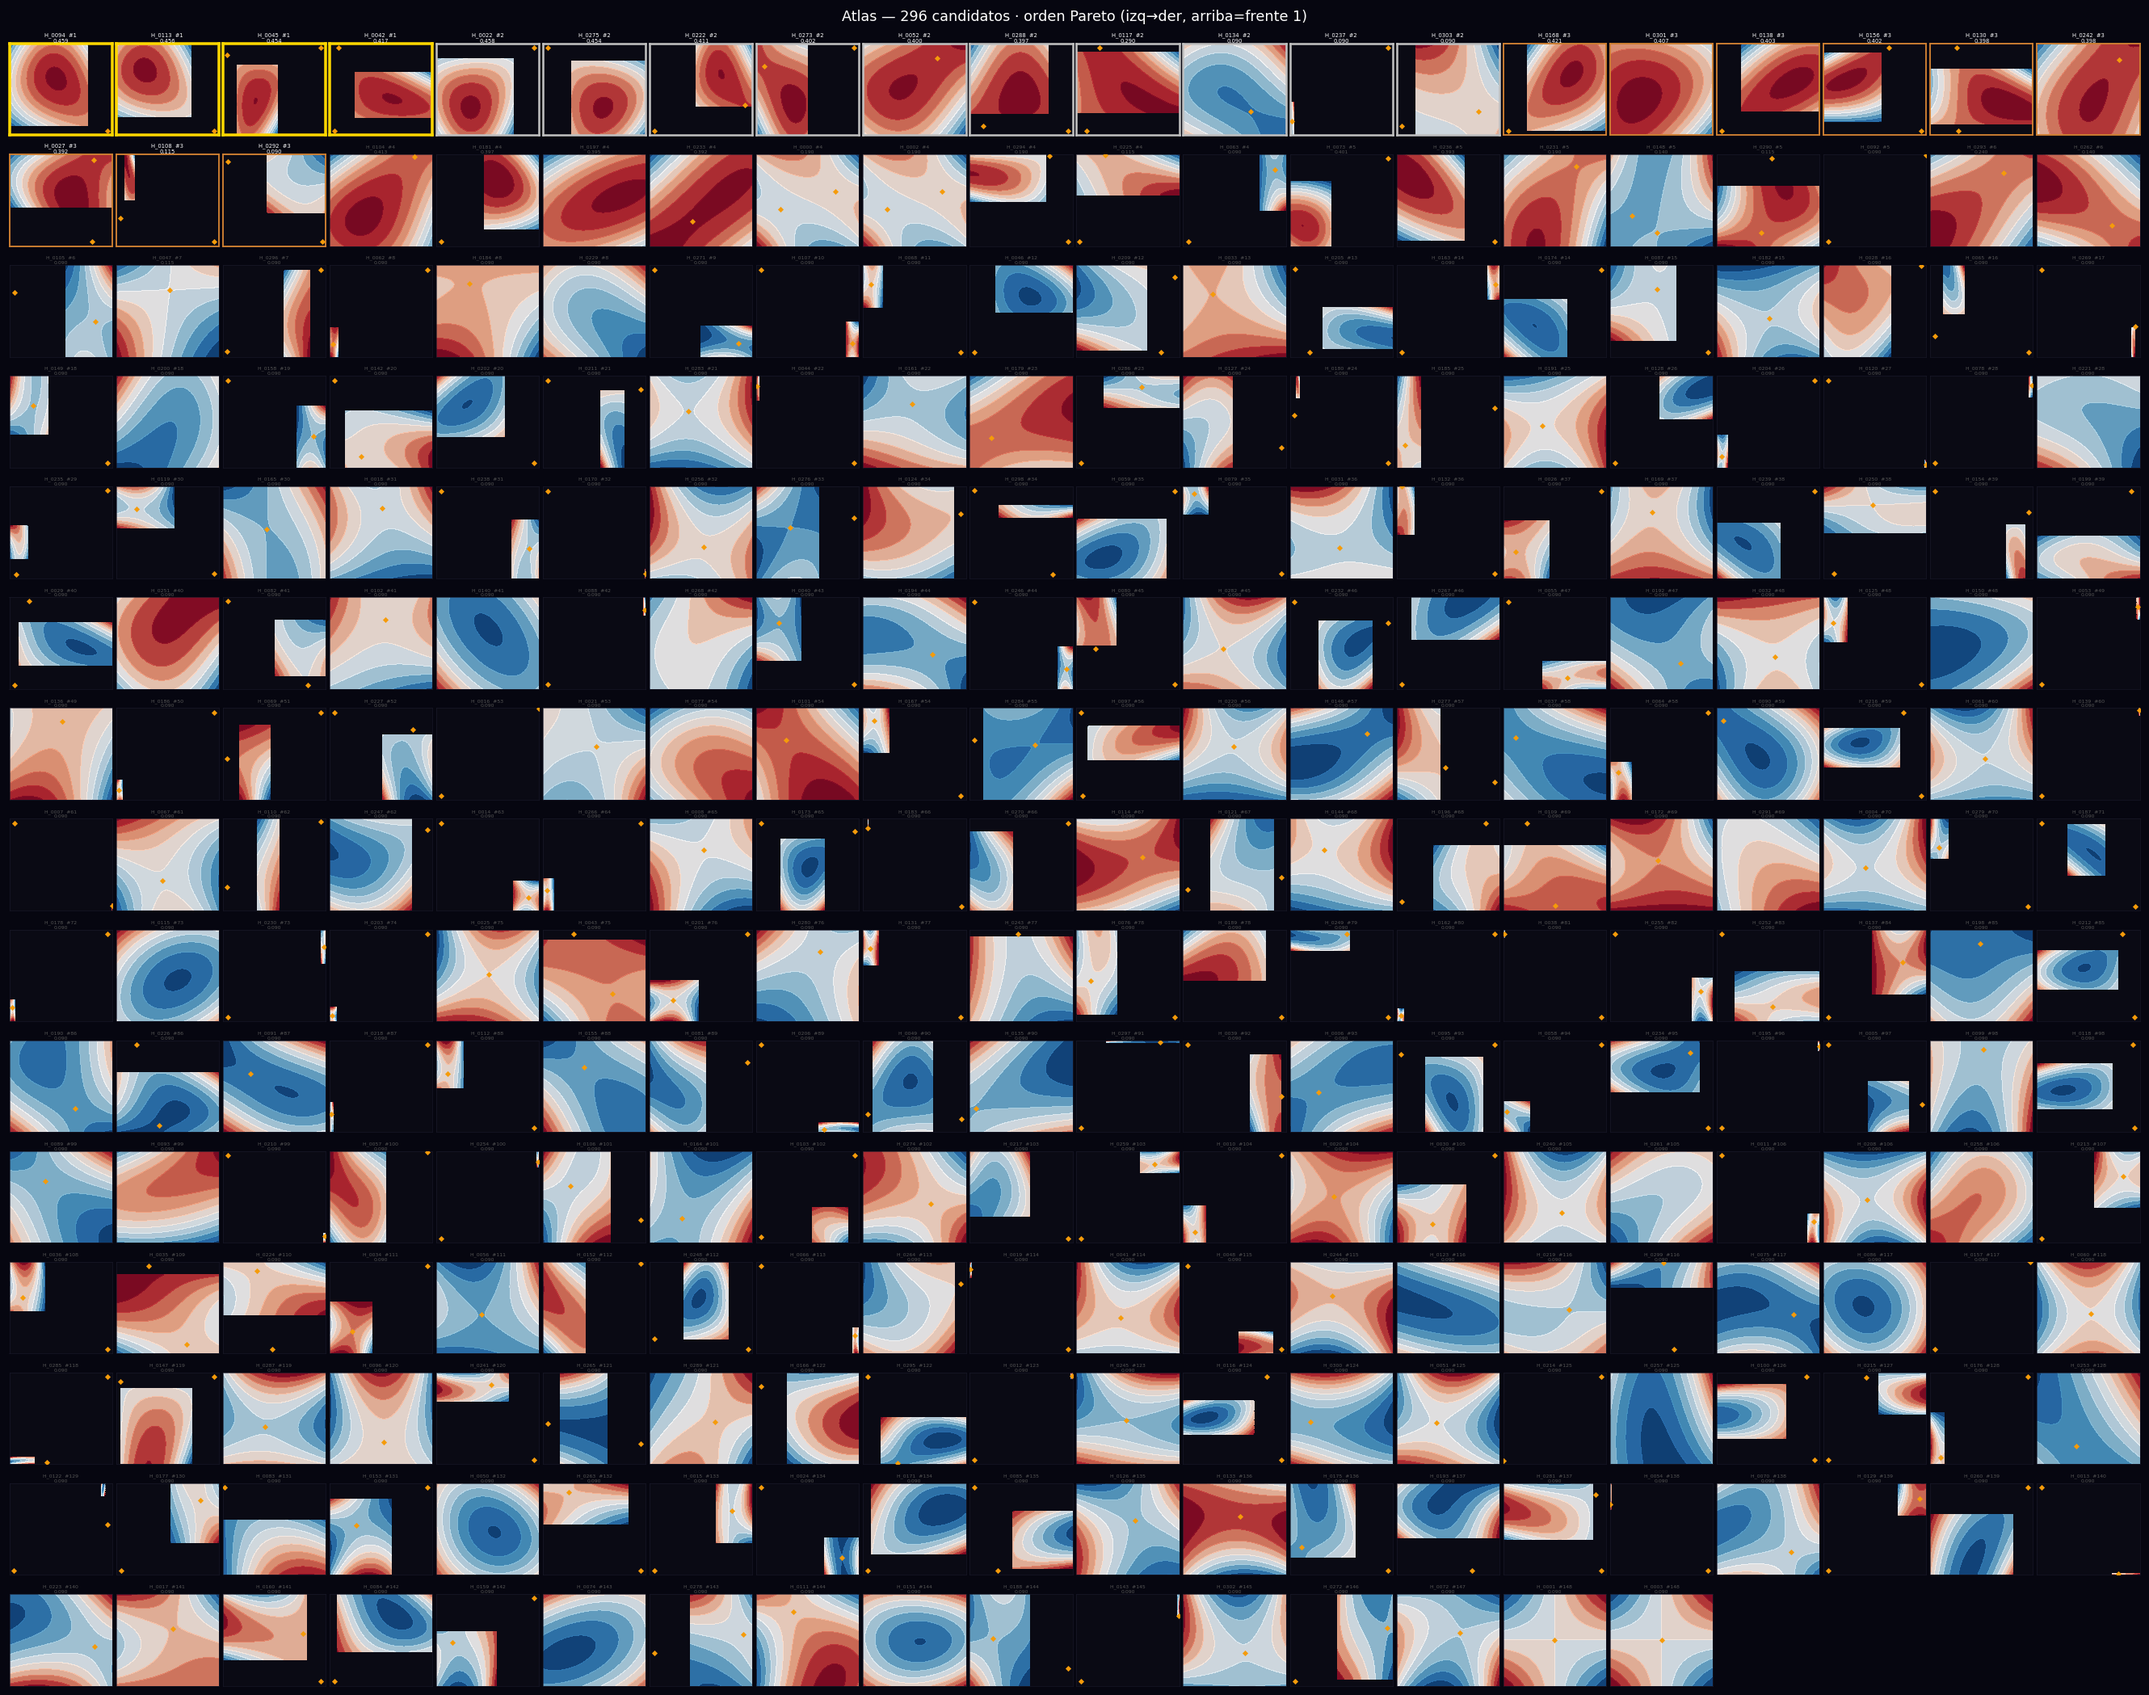
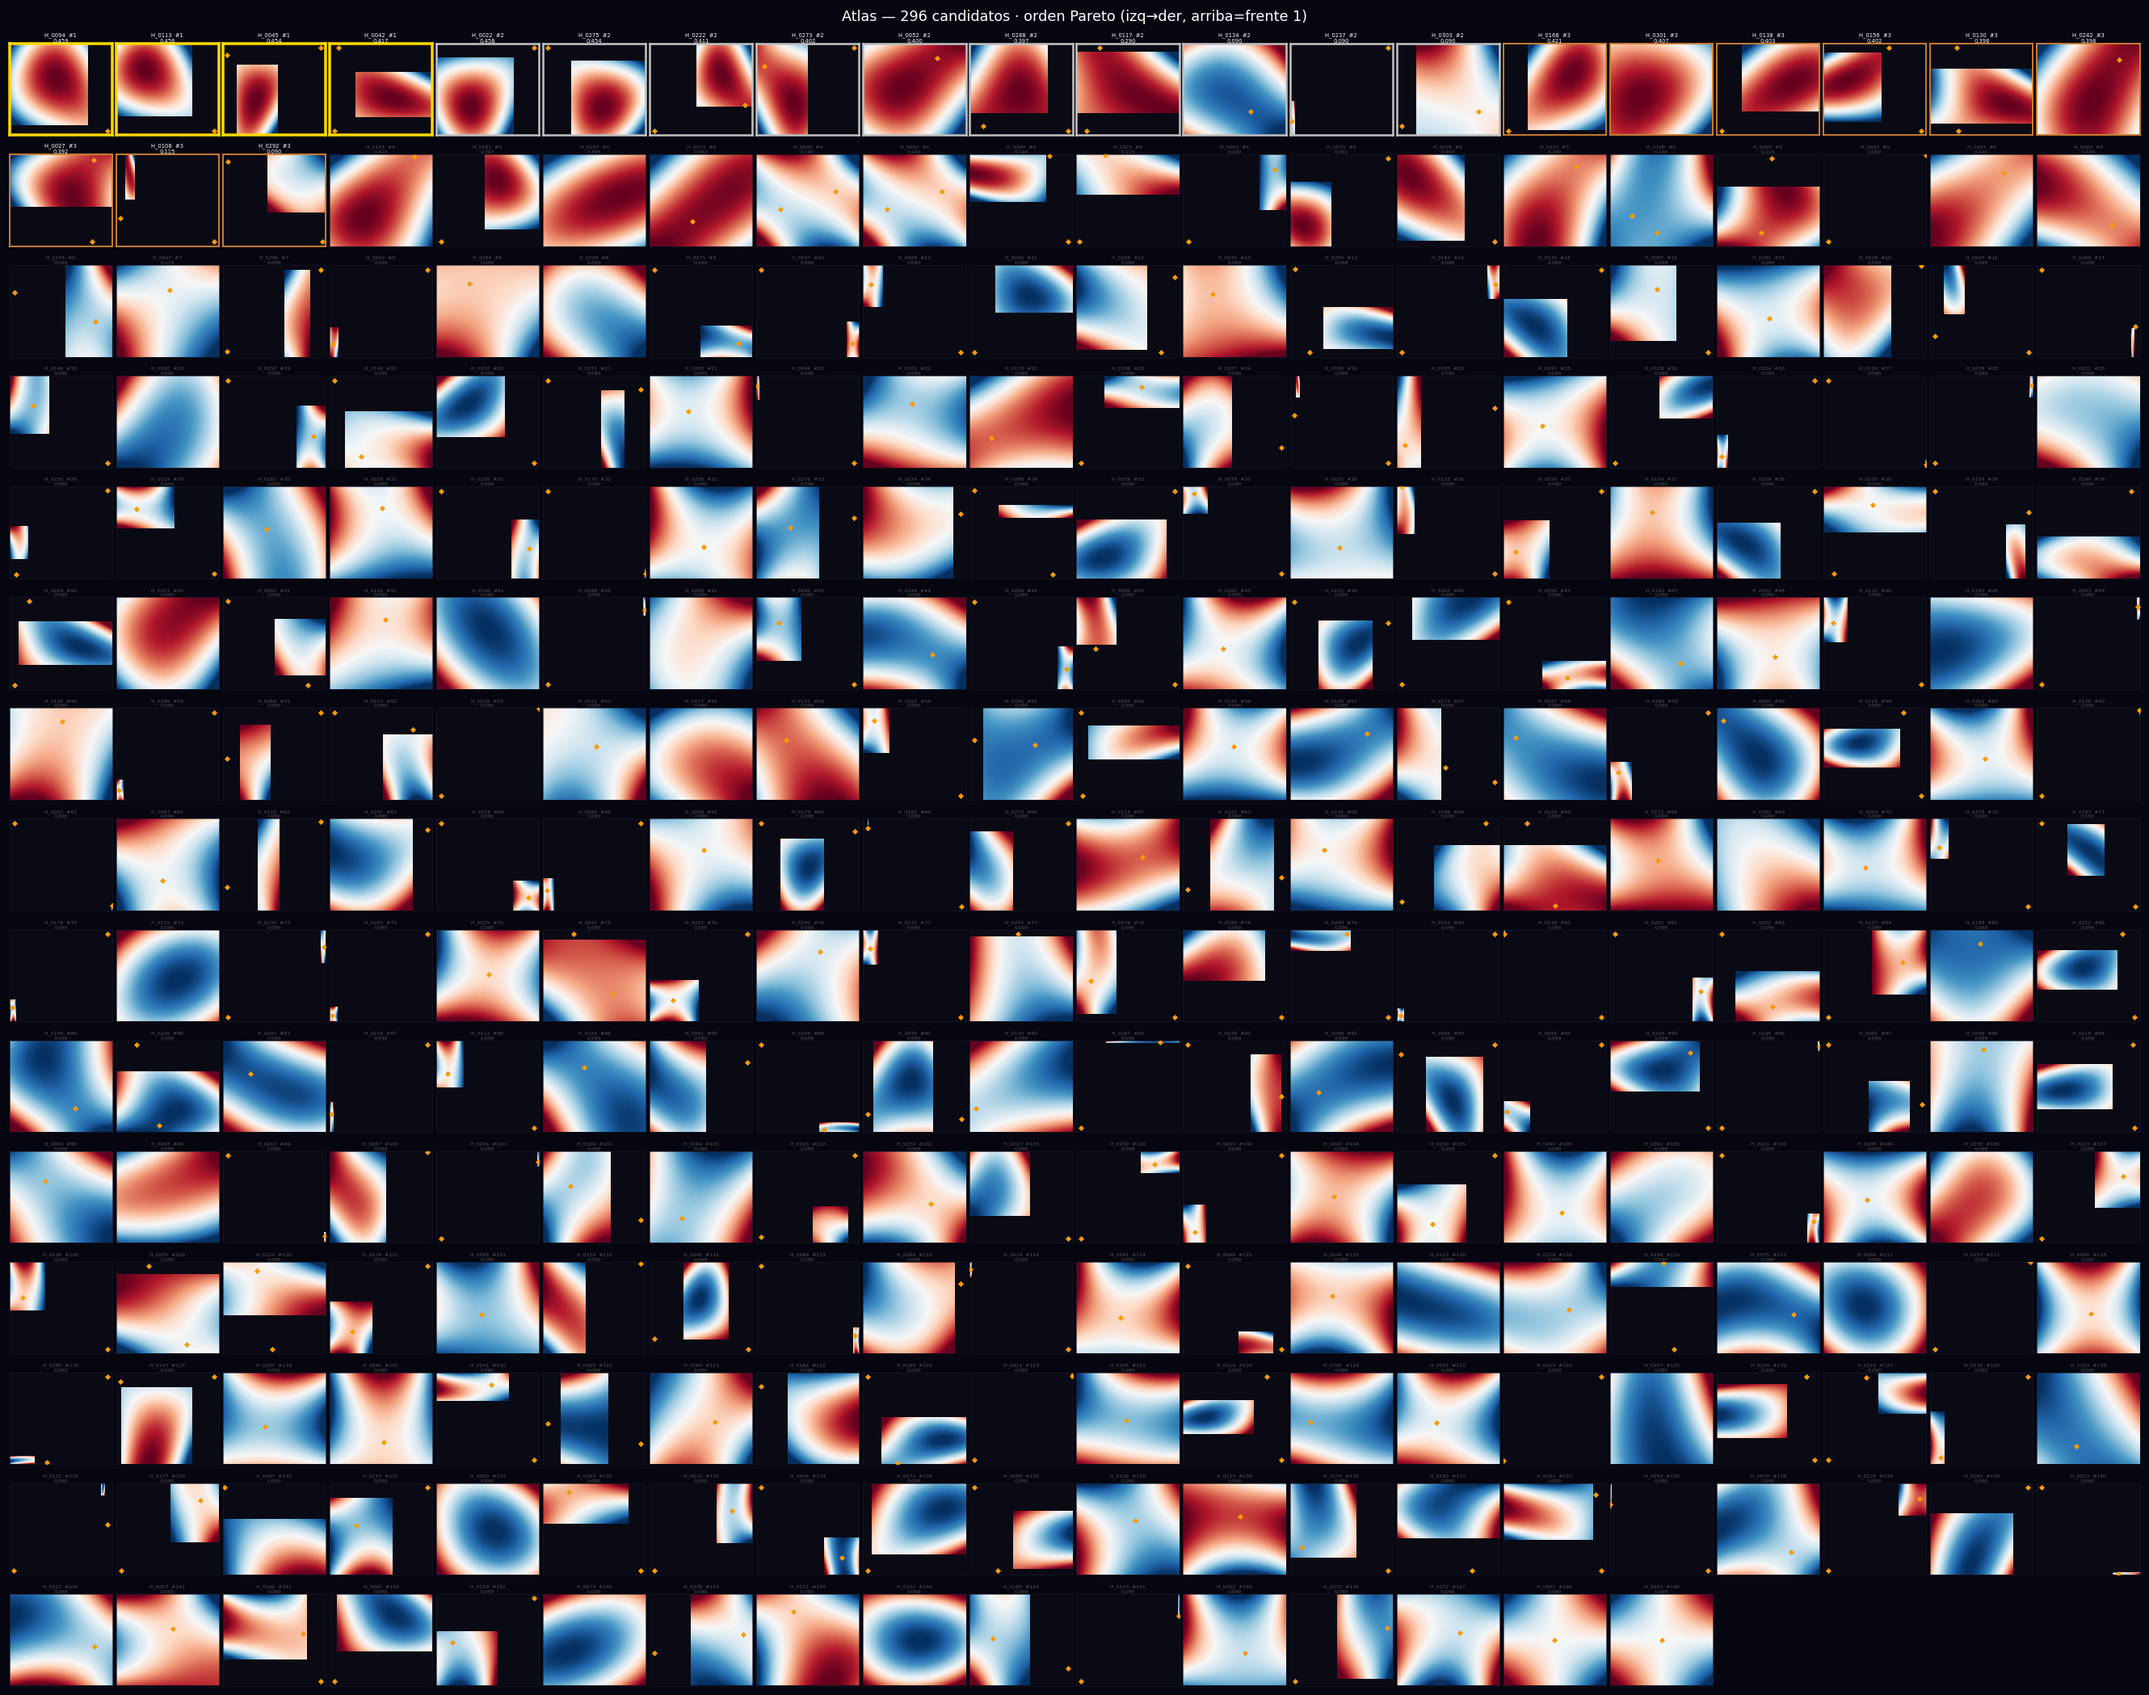
Mejorar atlas 2D y añadir atlas 3D de los 296 candidatos
Atlas 2D (atlas_candidatos.png):
- Sustituye contourf por imshow con recorte percentil p1/p99
- Sanitiza NaN/Inf antes de renderizar: elimina todos los cuadros negros
- Interpolacion bilinear para aspecto suave en thumbnails pequeños

Atlas 3D (atlas_candidatos_3d.png):
- Nueva funcion _generate_atlas_3d: renderiza cada superficie Gamma(H)
  como thumbnail independiente via FigureCanvasAgg (evita el desbordamiento
  de axes 3D en subplots nativos de matplotlib)
- Cuadricula 15x20, 120px por celda, angulo de vision fijo (elev=28, azim=-55)
- Nodos A1 marcados como estrellas naranjas sobre la superficie
- Bordes oro/plata/bronce segun rango Pareto; etiquetas ID, rango y score
- Llamado automaticamente desde --pareto junto al atlas 2D

diff --git a/experiments/06_hamiltonian_families/pipeline.py b/experiments/06_hamiltonian_families/pipeline.py
@@ -813,13 +813,22 @@ def _generate_atlas(catalog: Catalog, cfg: dict, id_to_rank: dict):
         try:
             h = _Ham(e["template"], e["coefficients"])
             Z = np.array(h(X, Y), dtype=float)
-            ax.contourf(X, Y, Z, levels=10, cmap="RdBu_r", alpha=0.9)
+            finite = np.isfinite(Z)
+            if not finite.any():
+                raise ValueError("all non-finite")
+            Z = np.where(finite, Z, np.nanmedian(Z[finite]))
+            vmin, vmax = np.percentile(Z, 1), np.percentile(Z, 99)
+            if vmax - vmin < 1e-9:
+                vmax = vmin + 1.0
+            ax.imshow(Z[::-1], origin="upper", extent=[-L, L, -L, L],
+                      cmap="RdBu_r", vmin=vmin, vmax=vmax,
+                      aspect="auto", interpolation="bilinear")
             for p in e["algebraic"].get("critical_points_summary", []):
                 if p.get("type") == "A1_node":
                     ax.scatter(p["x"], p["y"], s=10, c="#F59B0A",
                                marker="D", zorder=5, linewidths=0)
         except Exception:
-            pass
+            ax.set_facecolor("#0D0D20")
 
         rank = id_to_rank.get(e["id"], 99)
         bc   = border_col.get(rank, "#1A1A2A")
@@ -844,6 +853,148 @@ def _generate_atlas(catalog: Catalog, cfg: dict, id_to_rank: dict):
                 bbox_inches="tight")
     plt.close(fig)
     print(f"  Atlas → {out_path.name}  ({len(entries)} candidatos)")
+
+
+def _generate_atlas_3d(catalog: Catalog, cfg: dict, id_to_rank: dict):
+    """
+    Atlas 3D: renderiza Gamma(H)={z=H(x,y)} para cada candidato como thumbnail
+    independiente (FigureCanvasAgg) y los tilea en una cuadrícula compuesta.
+    Evita el desbordamiento de axes 3D usando una figura por thumbnail.
+    """
+    import matplotlib
+    matplotlib.use("Agg")
+    import matplotlib.pyplot as plt
+    from matplotlib.figure import Figure
+    from matplotlib.backends.backend_agg import FigureCanvasAgg
+    from mpl_toolkits.mplot3d import Axes3D  # noqa: F401
+    import numpy as np
+    from src.families import Hamiltonian as _Ham
+
+    out_dir = HERE / cfg["output"].get("figures_dir", "output/figures")
+    os.makedirs(out_dir, exist_ok=True)
+
+    entries = [e for e in catalog.entries if e["filter"].get("passes")]
+    entries = sorted(entries,
+                     key=lambda e: (id_to_rank.get(e["id"], 999),
+                                    -e["scores"].get("total", 0)))
+
+    L   = cfg["analysis"].get("box_L", 2.0)
+    N   = 22
+    xs  = np.linspace(-L, L, N)
+    ys  = np.linspace(-L, L, N)
+    X, Y = np.meshgrid(xs, ys)
+
+    PX  = 120
+    DPI = 80
+    TH  = PX / DPI
+    BORDER = 2
+    border_rgb = {
+        1: np.array([255, 215,   0], dtype=np.uint8),
+        2: np.array([192, 192, 192], dtype=np.uint8),
+        3: np.array([205, 127,  50], dtype=np.uint8),
+    }
+    bg_rgb = np.array([6, 6, 16], dtype=np.uint8)
+
+    def _render_thumbnail(e) -> np.ndarray:
+        fig3   = Figure(figsize=(TH, TH), dpi=DPI)
+        canvas = FigureCanvasAgg(fig3)
+        fig3.patch.set_facecolor("#060610")
+        ax3 = fig3.add_axes([0, 0, 1, 1], projection="3d")
+        ax3.set_facecolor("#0A0A18")
+        ax3.set_axis_off()
+        for pane in [ax3.xaxis.pane, ax3.yaxis.pane, ax3.zaxis.pane]:
+            pane.fill = False
+            pane.set_edgecolor("none")
+        try:
+            h  = _Ham(e["template"], e["coefficients"])
+            Z  = np.array(h(X, Y), dtype=float)
+            Z  = np.nan_to_num(Z, nan=0.0, posinf=0.0, neginf=0.0)
+            p2, p98 = np.percentile(Z, 2), np.percentile(Z, 98)
+            if p98 - p2 < 1e-9:
+                p98 = p2 + 1.0
+            Zc = np.clip(Z, p2, p98)
+            ax3.plot_surface(X, Y, Zc, cmap="RdBu_r",
+                             rcount=18, ccount=18,
+                             linewidth=0, alpha=0.92, antialiased=False)
+            for p in e["algebraic"].get("critical_points_summary", []):
+                if p.get("type") == "A1_node":
+                    try:
+                        pz = float(h(p["x"], p["y"]))
+                        ax3.scatter([p["x"]], [p["y"]], [pz],
+                                    s=28, c="#F59B0A", marker="*",
+                                    depthshade=False, zorder=10)
+                    except Exception:
+                        pass
+        except Exception:
+            pass
+        ax3.view_init(elev=28, azim=-55)
+        canvas.draw()
+        buf = np.frombuffer(canvas.buffer_rgba(), dtype=np.uint8)
+        img = buf.reshape(canvas.get_width_height()[::-1] + (4,))
+        return img[:, :, :3]
+
+    ncols = 15
+    nrows = (len(entries) + ncols - 1) // ncols
+    print(f"  Renderizando {len(entries)} thumbnails 3D ({ncols}x{nrows})...")
+
+    thumbs = []
+    for i, e in enumerate(entries):
+        img = _render_thumbnail(e)
+        # Normalizar tamaño (redondeo DPI)
+        h_, w_ = img.shape[:2]
+        tile = np.full((PX, PX, 3), bg_rgb, dtype=np.uint8)
+        tile[:min(h_, PX), :min(w_, PX)] = img[:min(h_, PX), :min(w_, PX)]
+        # Borde de rango Pareto
+        rank = id_to_rank.get(e["id"], 99)
+        bc   = border_rgb.get(rank, np.array([26, 26, 42], dtype=np.uint8))
+        tile[:BORDER, :]  = bc
+        tile[-BORDER:, :] = bc
+        tile[:, :BORDER]  = bc
+        tile[:, -BORDER:] = bc
+        thumbs.append(tile)
+        if (i + 1) % 60 == 0:
+            print(f"    {i+1}/{len(entries)}")
+
+    # Rellenar celdas vacías
+    while len(thumbs) < nrows * ncols:
+        thumbs.append(np.full((PX, PX, 3), bg_rgb, dtype=np.uint8))
+
+    # Componer cuadrícula
+    rows_imgs = [np.concatenate(thumbs[r*ncols:(r+1)*ncols], axis=1)
+                 for r in range(nrows)]
+    grid = np.concatenate(rows_imgs, axis=0)
+
+    FIG_W = ncols * PX / DPI
+    FIG_H = nrows * PX / DPI + 0.65
+    fig, ax = plt.subplots(1, 1, figsize=(FIG_W, FIG_H))
+    fig.patch.set_facecolor("#060610")
+    fig.suptitle(
+        f"Atlas 3D — {len(entries)} candidatos   "
+        f"Gamma(H)={{z=H(x,y)}}   "
+        f"orden Pareto (izq→der, arriba=frente 1)   |   * = nodo A1",
+        color="white", fontsize=9, y=0.998)
+    ax.imshow(grid, origin="upper", interpolation="nearest",
+              extent=[0, ncols * PX, nrows * PX, 0])
+    ax.set_axis_off()
+
+    label_cols = {1: "#FFD700", 2: "#C0C0C0", 3: "#CD7F32"}
+    for idx, e in enumerate(entries):
+        r, c  = divmod(idx, ncols)
+        rank  = id_to_rank.get(e["id"], 99)
+        score = e["scores"].get("total", 0)
+        tcol  = label_cols.get(rank, "#404040")
+        cx    = (c + 0.5) * PX
+        ax.text(cx, r * PX + 3,        f"{e['id']}  #{rank}",
+                fontsize=3.2, color=tcol, ha="center", va="top")
+        ax.text(cx, (r + 1) * PX - 3,  f"{score:.3f}",
+                fontsize=3.0, color=tcol, ha="center", va="bottom")
+
+    fig.tight_layout(pad=0.05)
+    out_path = out_dir / "atlas_candidatos_3d.png"
+    fig.savefig(out_path, dpi=DPI, facecolor=fig.get_facecolor(),
+                bbox_inches="tight")
+    plt.close(fig)
+    print(f"  Atlas 3D → {out_path.name}  ({len(entries)} candidatos)")
 
 
 def main():
@@ -885,6 +1036,7 @@ def main():
         if args.pareto:
             id_to_rank = _generate_pareto_overview(catalog, cfg)
             _generate_atlas(catalog, cfg, id_to_rank)
+            _generate_atlas_3d(catalog, cfg, id_to_rank)
         if args.figures:
             # Figuras detalladas para frente 1 (o top 20 si front1 > 20)
             id_to_rank_f, _ = _compute_pareto_ranks(catalog)
